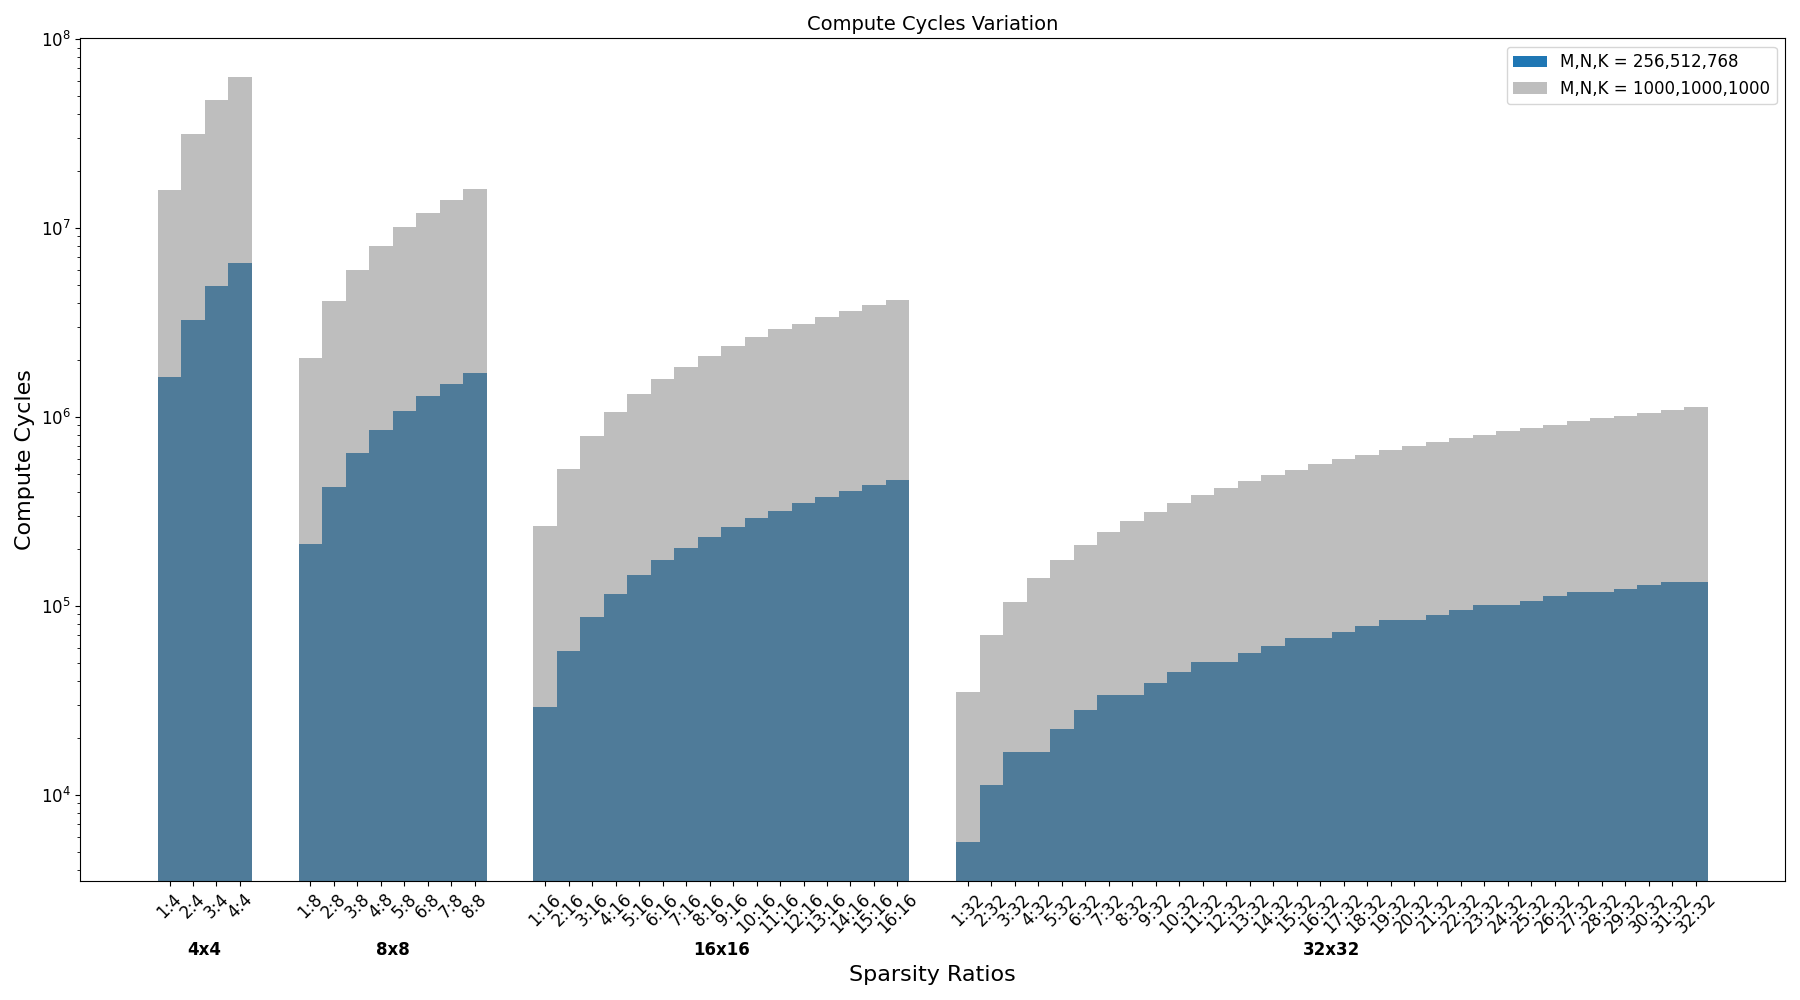
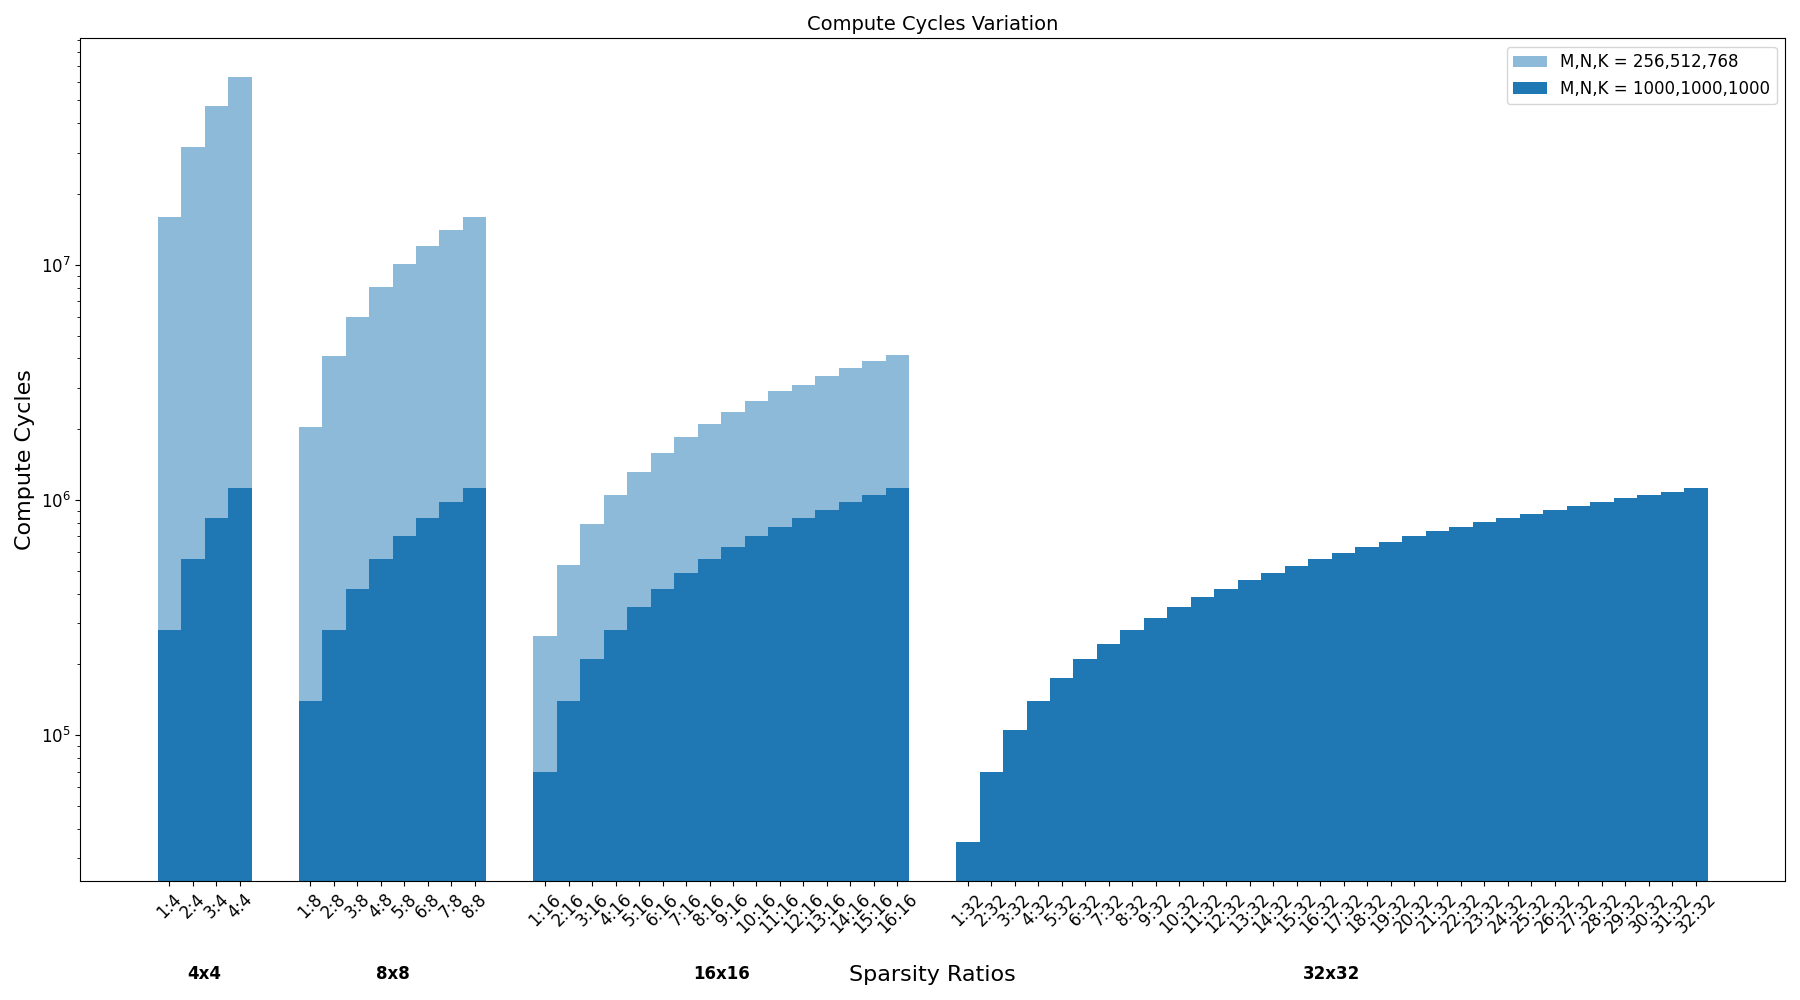
block variation for same PE

diff --git a/graph_simulations1.py b/graph_simulations1.py
@@ -1,5 +1,5 @@
 """
-This file shall be used for studies related to layer-wise sparsity - with M in N:M = array height
+This file shall be used for studies related to layer-wise sparsity - variation of block size
 """
 
 import os
@@ -89,7 +89,8 @@ def main():
             
             # Generate the simulation command
             command = scalesim_command_template.format(
-                cfg_file=cfg_filepath,
+                # cfg_file=cfg_filepath,
+                cfg_file=os.path.join(cfg_path, f"lws_32x32.cfg"),
                 csv_file=csv_filepath,
                 results_path=results_path
             )
@@ -97,6 +98,9 @@ def main():
 
     # Execute commands if enabled
     if execute_commands:
+        # for command in commands:
+        #     print(command) 
+        # assert 1==0, "BLIM"
         print("\nExecuting Commands...\n")
         for command, array_size, sparsity_ratio in commands:
             print(f"Executing: {command}")
@@ -128,7 +132,7 @@ def main():
     # Generate graphs if enabled
     if generate_graphs:
         # plot_results(output_csv_path)
-        plot_results_combined("output_results1.csv", "output_results7.csv", "overlapping_compute_cycles.png")
+        plot_results_combined("output_results7.csv", "output_results8.csv", "overlapping_compute_cycles.png")
 
 # Function to plot results
 def plot_results(output_csv_path):
@@ -182,16 +186,16 @@ def plot_results(output_csv_path):
     plt.yticks(fontsize=12)
     plt.xlabel("Sparsity Ratios", fontsize=16, labelpad=20)  # Add x-axis label with padding
     plt.ylabel("Compute Cycles", fontsize=16)
-    plt.title("GEMM M,N,K = 1000,1000,1000: Compute Cycles vs Array Sizes and Sparsity Ratios", fontsize=14)
+    plt.title("GEMM M,N,K = 1000,1000,1000: Compute Cycles vs Sparsity Ratios and Block Sizes for a 32x32 PE Array", fontsize=14)
     plt.yscale("log")  # Logarithmic Y-axis
 
     # Increase bottom margin to accommodate array size labels
     plt.subplots_adjust(bottom=0.2)
 
-    # Print array size labels centered below each group
-    for position, label in array_labels_positions:
-        plt.text(position, min(min(d.values()) for d in data.values()) * 0.4, label,
-                 ha='center', va='top', fontsize=12, fontweight='bold')
+    # # Print array size labels centered below each group
+    # for position, label in array_labels_positions:
+    #     plt.text(position, min(min(d.values()) for d in data.values()) * 0.4, label,
+    #              ha='center', va='top', fontsize=12, fontweight='bold')
 
     plt.tight_layout()
     plt.savefig("lws_compute_cycles_plot.png")
@@ -244,9 +248,9 @@ def plot_results_combined(csv_file1, csv_file2, output_filename):
 
         for sr in sparsity_ratios:
             # Bars for output_results1.csv (front side)
-            plt.bar(current_x, data1[array_size][sr], width=bar_width, color='tab:blue', label="File 1" if current_x == 0 else "")
+            plt.bar(current_x, data1[array_size][sr], width=bar_width, color='tab:blue', alpha=0.5, label="File 1" if current_x == 0 else "")
             # Bars for output_results7.csv (back side, slightly transparent)
-            plt.bar(current_x, data2[array_size][sr], width=bar_width, color='tab:gray', alpha=0.5, label="File 7" if current_x == 0 else "")
+            plt.bar(current_x, data2[array_size][sr], width=bar_width, color='tab:blue', label="File 2" if current_x == 0 else "")
             x_positions.append(current_x)
             sparsity_labels.append(sr)
             current_x += bar_width  # Move to next position
